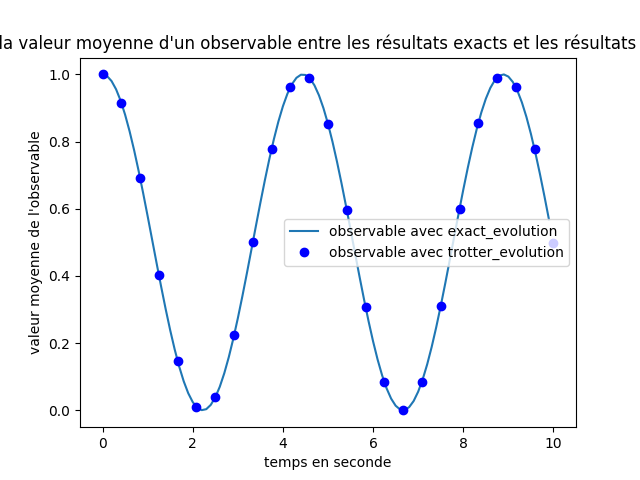
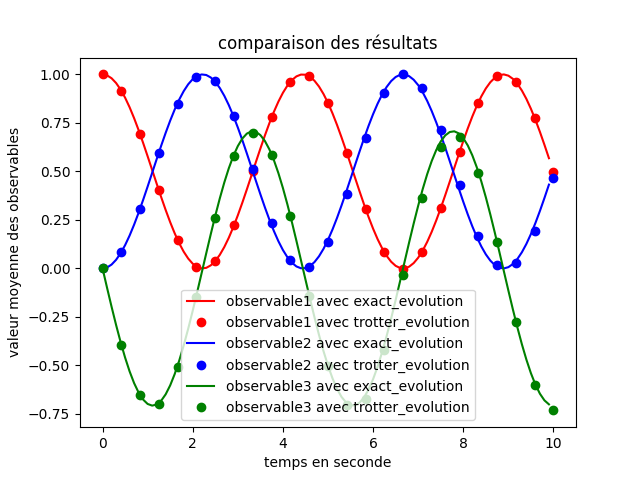
petites modif des résultats

diff --git a/simulation_graphs.py b/simulation_graphs.py
@@ -35,15 +35,26 @@ def afficher_evolution_2D(
     plt.ylabel("valeur moyenne des observables")
     plt.savefig(graph_title)
 
-def comparaison_graph(exact_results: NDArray, trotter_results : NDArray, time_values : NDArray[np.float_], tr_time_values: NDArray[np.float_], observable_column : int):
-    y1 = np.array(exact_results[: ,observable_column])
-    plt.plot(time_values, y1, label = "observable avec exact_evolution")
-    y2 = np.array(trotter_results[:, observable_column])
-    plt.plot(tr_time_values, y2, "ob", label = "observable avec trotter_evolution")
-    plt.title("comparaison de la valeur moyenne d'un observable entre les résultats exacts et les résultats de la trotterisation")
+def comparaison_graph(exact_results: NDArray, trotter_results : NDArray, time_values : NDArray[np.float_], tr_time_values: NDArray[np.float_], nb_observables : int):
+    y1 = np.array(exact_results[: ,0])
+    plt.plot(time_values, y1, "r", label = "observable" + str(1) + " avec exact_evolution")
+    y2 = np.array(trotter_results[:, 0])
+    plt.plot(tr_time_values, y2, "or", label = "observable" + str(1) + " avec trotter_evolution")
+
+    y1 = np.array(exact_results[: ,1])
+    plt.plot(time_values, y1, "b", label = "observable" + str(2) + " avec exact_evolution")
+    y2 = np.array(trotter_results[:, 1])
+    plt.plot(tr_time_values, y2, "ob", label = "observable" + str(2) + " avec trotter_evolution")
+
+    y1 = np.array(exact_results[: ,2])
+    plt.plot(time_values, y1, "g", label = "observable" + str(3) + " avec exact_evolution")
+    y2 = np.array(trotter_results[:, 2])
+    plt.plot(tr_time_values, y2, "og", label = "observable" + str(3) + " avec trotter_evolution")
+
+    plt.title("comparaison des résultats")
     plt.legend()
     plt.xlabel("temps en seconde")
-    plt.ylabel("valeur moyenne de l'observable")
+    plt.ylabel("valeur moyenne des observables")
     plt.savefig("comparaison_graph")
 
 def soustraction_graph(exact_results: NDArray, trotter_results : NDArray, time_values : NDArray[np.float_], observable_column : int, tolerance : float):

diff --git a/evolution_tester.py b/evolution_tester.py
@@ -49,7 +49,8 @@ trotter_results = trotter_evolution(initial_state, hamiltonian, tr_time_values, 
 
 #print(validation)
 
-comparaison_graph(exact_results, trotter_results, time_values, tr_time_values, 0)
+
+comparaison_graph(exact_results, trotter_results, time_values, tr_time_values, len(observables))
 #soustraction_graph(exact_results, trotter_results, time_values, 0, 0.01)
 #afficher_evolution_2D(trotter_results, time_values, "IIX", "IYI", "ZII", "3_qubits_evolution")
 
